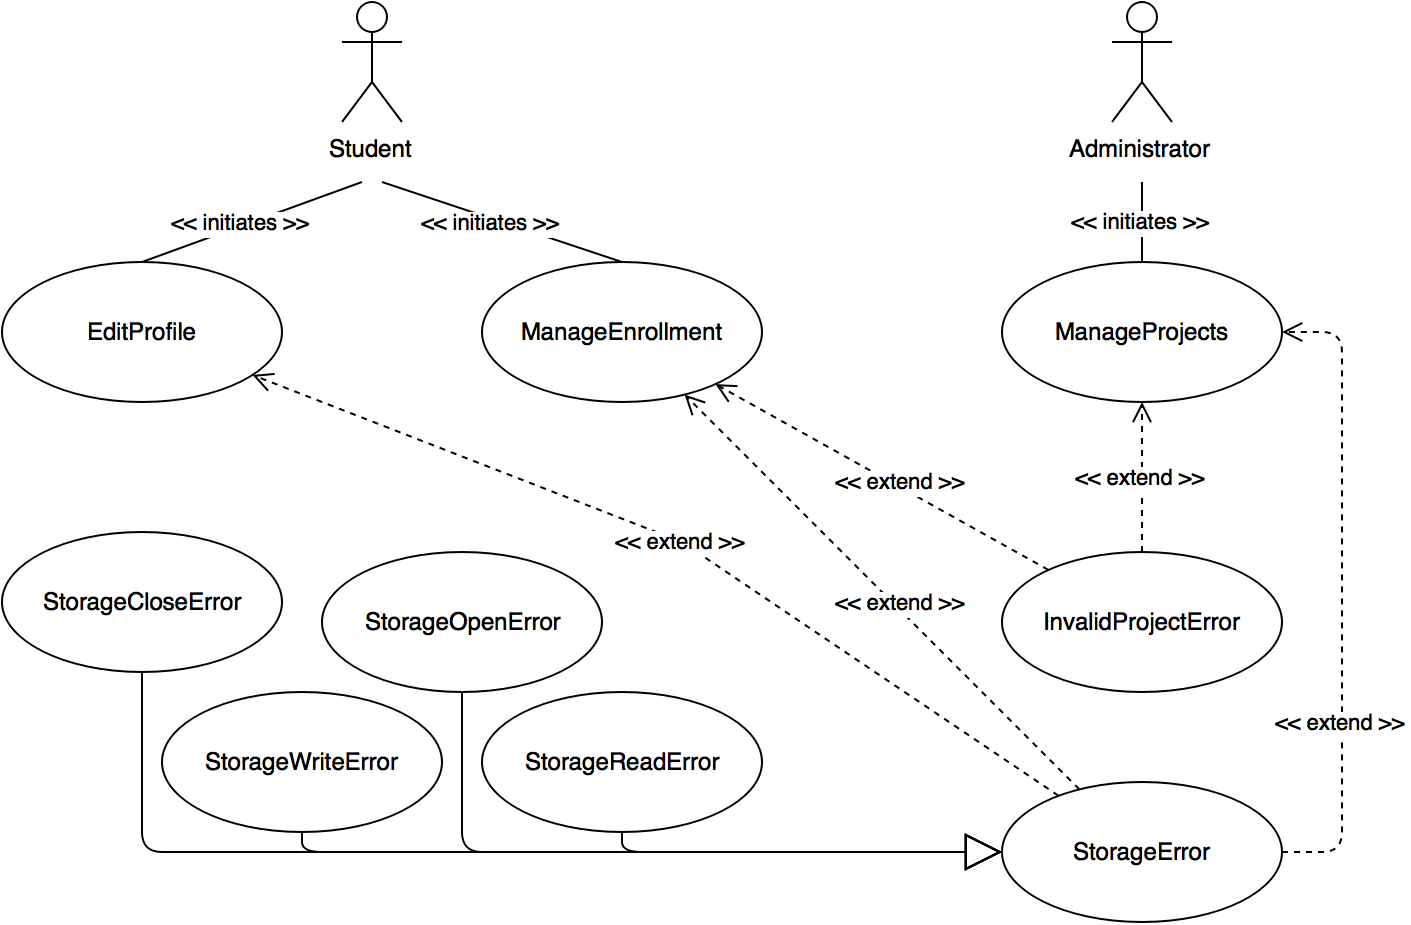
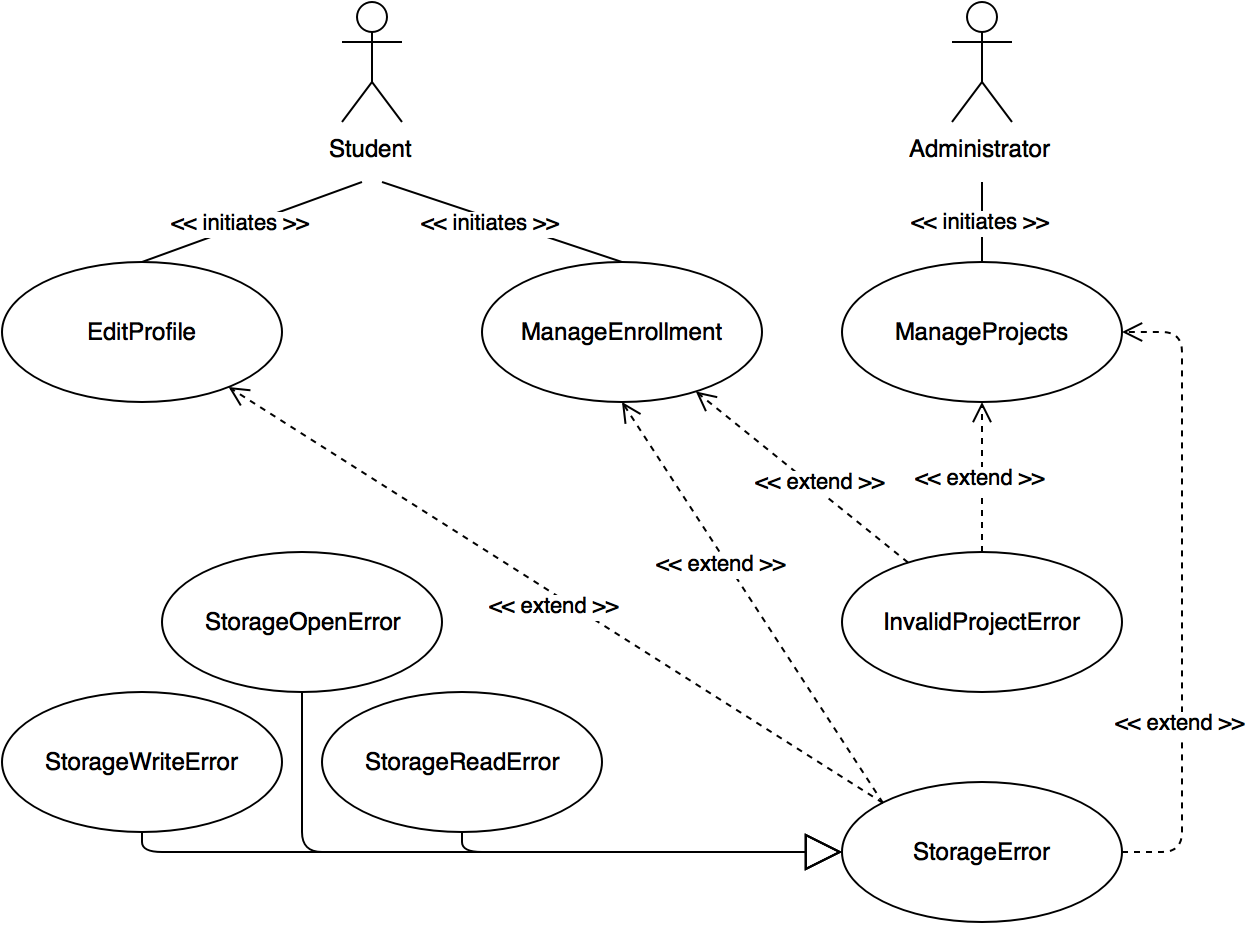
finished storage use cases details

diff --git a/docs/main.tex b/docs/main.tex
@@ -443,7 +443,6 @@ Please also note that we have decided to not include any error cases in this par
 		\storagereaderror{} & StorageReadError & The system reports that an error occurred while attempting to read from the Storage.\\
 		\storageopenerror{} & StorageOpenError & The system reports that an error occurred while attempting to open the Storage.\\
 		\storagewriteerror{} & StorageWriteError & The system reports that an error occurred while attempting to write to the Storage.\\
-		\storagecloseerror{} & StorageCloseError & The system reports that an error occurred while attempting to close the Storage.\\
 	\end{tabu}
 \end{table}
 
@@ -1244,13 +1243,10 @@ Please also note that we have decided to not include any error cases in this par
 
 		Exit Conditions &
 		\begin{itemize}[topsep=-1em,leftmargin=*]
-		    \item The operation is aborted.
+		    \item The storage operation is cancelled.
         \end{itemize} \\
 
-		Quality Requirements &
-		\begin{itemize}[topsep=-1em,leftmargin=*]
-		    \item 
-        \end{itemize} \\
+		Quality Requirements & \\
 
 		Traceability & NF-02 \\
 		\toprule
@@ -1262,7 +1258,7 @@ Please also note that we have decided to not include any error cases in this par
 		\toprule
 		Use Case Identifier & \storagereaderror{} \\
 		Name & {\bf StorageReadError} \\
-		Participating Actors & Administrator, Student \\
+		Participating Actors & \textbf{Inherited} from StorageError use case. \\
 		Flow of Events & 
 	    \begin{enumerate}[topsep=-1em,leftmargin=*]
 		    \item The system notifies the Administrator/Student that an error has occurred while reading from the storage.
@@ -1275,13 +1271,10 @@ Please also note that we have decided to not include any error cases in this par
 
 		Exit Conditions &
 		\begin{itemize}[topsep=-1em,leftmargin=*]
-		    \item The operation is aborted.
+		    \item The read operation is cancelled.
         \end{itemize} \\
 
-		Quality Requirements &
-		\begin{itemize}[topsep=-1em,leftmargin=*]
-		    \item 
-        \end{itemize} \\
+		Quality Requirements & \\
 
 		Traceability & NF-02 \\
 		\toprule
@@ -1306,13 +1299,10 @@ Please also note that we have decided to not include any error cases in this par
 
 		Exit Conditions &
 		\begin{itemize}[topsep=-1em,leftmargin=*]
-		    \item The operation is aborted.
+		    \item The open operation is cancelled.
         \end{itemize} \\
 
-		Quality Requirements &
-		\begin{itemize}[topsep=-1em,leftmargin=*]
-		    \item 
-        \end{itemize} \\
+		Quality Requirements & \\
 
 		Traceability & NF-02 \\
 		\toprule
@@ -1324,7 +1314,7 @@ Please also note that we have decided to not include any error cases in this par
 		\toprule
 		Use Case Identifier & \storagewriteerror{} \\
 		Name & {\bf StorageWriteError} \\
-		Participating Actors & Administrator, Student \\
+		Participating Actors & \textbf{Inherited} from StorageError use case. \\
 		Flow of Events & 
 	    \begin{enumerate}[topsep=-1em,leftmargin=*]
 		    \item The system notifies the Administrator/Student that an error has occurred while saving to the storage.
@@ -1337,13 +1327,10 @@ Please also note that we have decided to not include any error cases in this par
 
 		Exit Conditions &
 		\begin{itemize}[topsep=-1em,leftmargin=*]
-		    \item The operation will be cancelled and the changes will be reverted.
+		    \item The save is cancelled.
         \end{itemize} \\
 
-		Quality Requirements &
-		\begin{itemize}[topsep=-1em,leftmargin=*]
-		    \item 
-        \end{itemize} \\
+		Quality Requirements & \\
 
 		Traceability & NF-02 \\
 		\toprule
